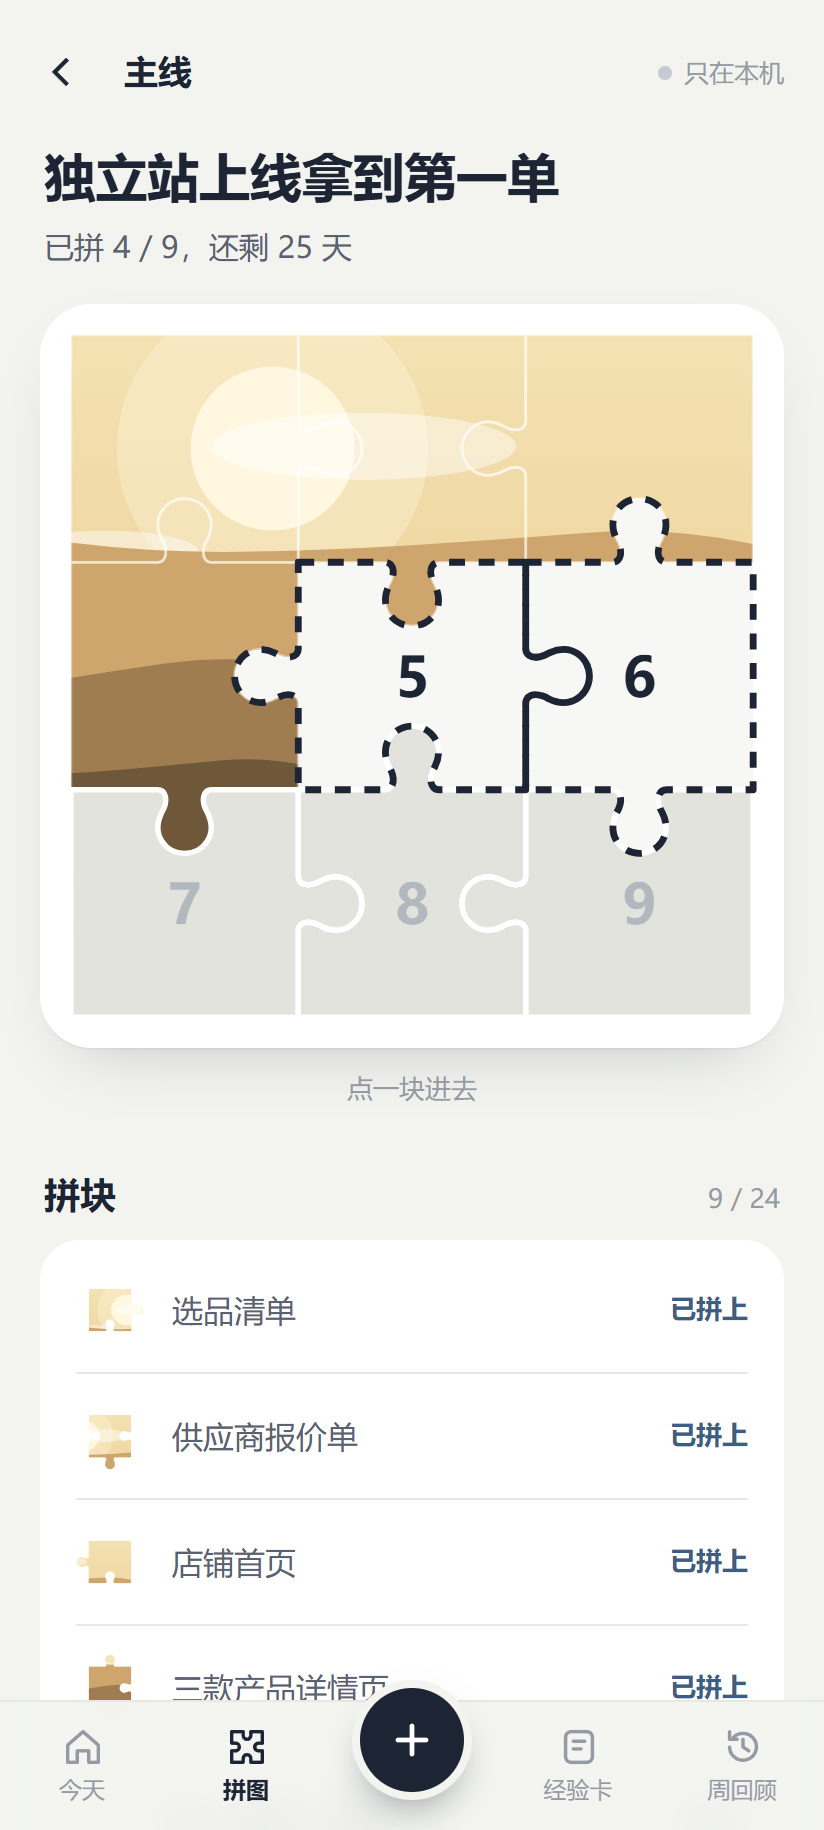
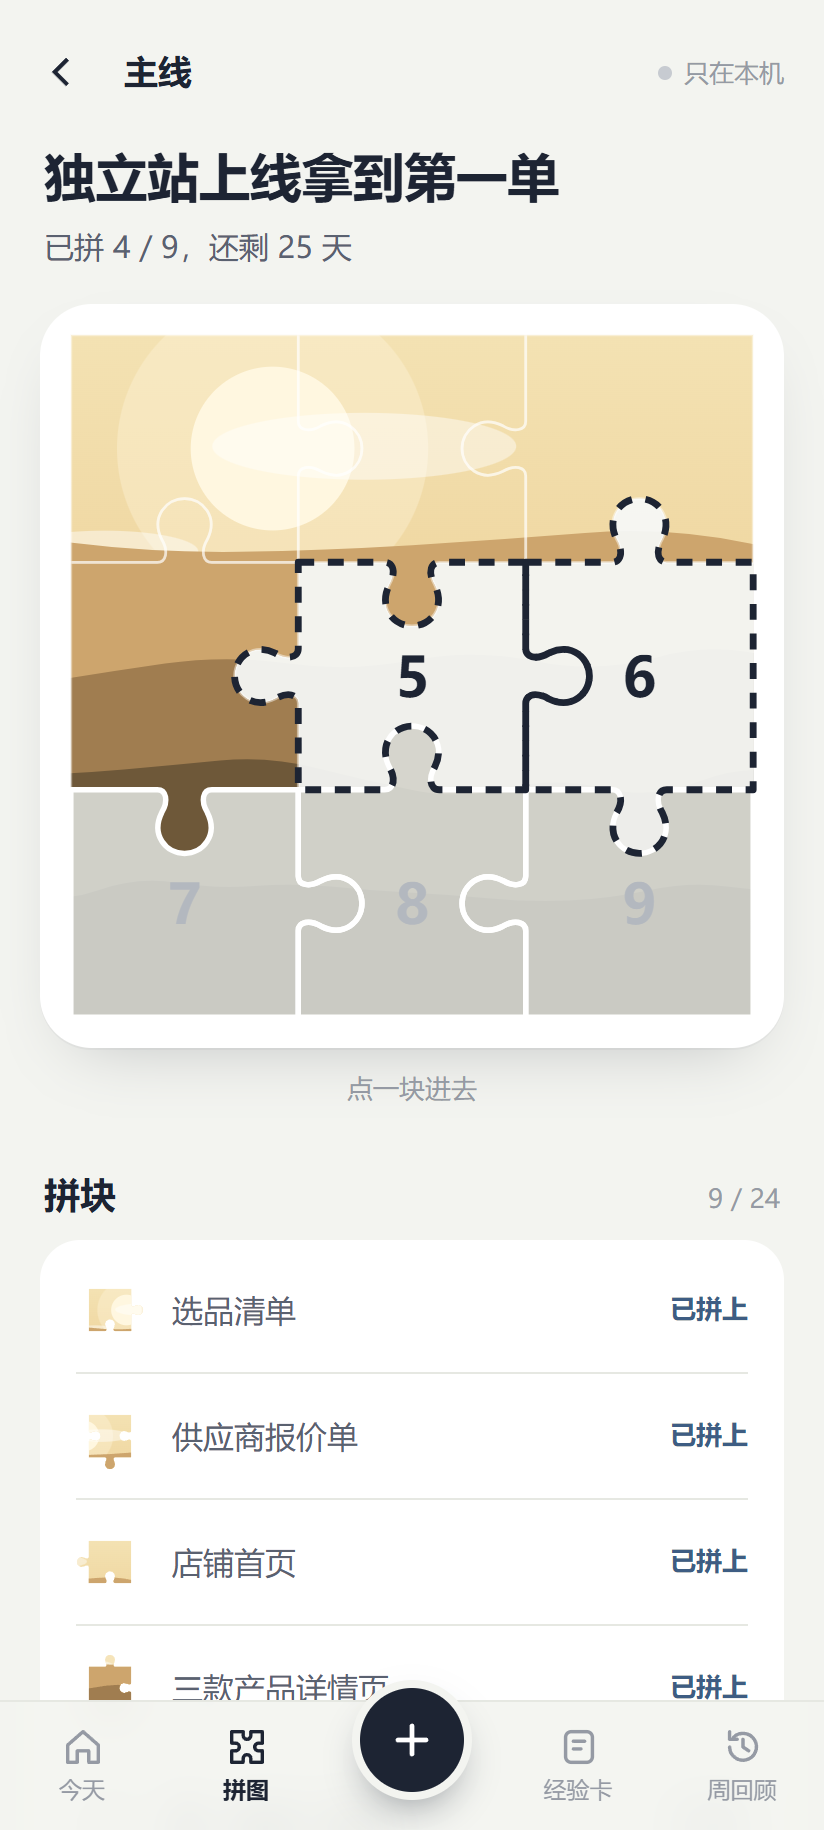
T032: 空位隐约透出风景轮廓

Changed region(s): [[0.091, 0.4672, 0.9102, 0.5607]]

diff --git a/app.js b/app.js
@@ -2,7 +2,7 @@ import * as C from './core.js';
 import * as DB from './db.js';
 import * as S from './sync.js';
 
-export const VERSION = '1.1.0';
+export const VERSION = '1.1.1';
 
 const $ = (s, el = document) => el.querySelector(s);
 const esc = s => String(s ?? '').replace(/[&<>"']/g, c => ({ '&': '&amp;', '<': '&lt;', '>': '&gt;', '"': '&quot;', "'": '&#39;' }[c]));
@@ -334,7 +334,9 @@ function jigsawSvg(pz, { mini = false } = {}) {
   const seams = order.map(i => { const g = J.pieces[i]; return `<g class="${sts[i]} ${mini ? '' : 'tap'}" data-piece="${ps[i].id}" ${mini ? '' : `data-act="go" data-to="#/piece/${ps[i].id}"`}>
       <path class="seam" d="${g.d}" style="fill:transparent"/>${mini || sts[i] === 'done' ? '' : `<text x="${g.cx}" y="${g.cy}">${i + 1}</text>`}</g>`; }).join('');
   return `<svg class="jig ${mini ? 'mini' : ''}" viewBox="-3 -3 ${W + 6} ${H + 6}" role="img" aria-label="${esc(pz.name)}：已拼 ${doneIdx.length} / ${ps.length}">
-    <defs>${art.defs}<clipPath id="${uid}-c">${doneIdx.map(i => `<path d="${J.pieces[i].d}"/>`).join('')}</clipPath></defs>
+    <defs>${art.defs}<clipPath id="${uid}-c">${doneIdx.map(i => `<path d="${J.pieces[i].d}"/>`).join('')}</clipPath>
+      <clipPath id="${uid}-all">${J.pieces.map(g => `<path d="${g.d}"/>`).join('')}</clipPath></defs>
+    <g class="ghost-art" clip-path="url(#${uid}-all)">${art.body}</g>
     ${slots}
     ${doneIdx.length ? `<g clip-path="url(#${uid}-c)">${art.body}</g>` : ''}
     ${seams}

diff --git a/styles.css b/styles.css
@@ -60,9 +60,10 @@ h2 { font-size: 18px; line-height: 1.4; font-weight: 750; margin: 0; }
 }
 .tray.tap { cursor: pointer; }
 .jig { display: block; width: 100%; height: auto; overflow: visible; }
-.jig .fill { fill: var(--slot); }
+.jig .fill { fill: var(--slot); fill-opacity: .86; }
+.jig .ghost-art { filter: saturate(.35); }
 .jig .seam { fill: none; stroke: #fff; stroke-width: 2.4; stroke-linejoin: round; }
-.jig .doing .fill { fill: #F7F8F5; }
+.jig .doing .fill { fill: #F7F8F5; fill-opacity: .93; }
 .jig .doing .seam { stroke: var(--ink); stroke-width: 3; stroke-dasharray: 7 6; }
 .jig .done .seam { stroke: rgba(255, 255, 255, .45); stroke-width: 1.2; }
 .jig text { font: 700 24px var(--sans); fill: #B3B8BF; text-anchor: middle; dominant-baseline: central; pointer-events: none; }

diff --git a/sw.js b/sw.js
@@ -1,5 +1,5 @@
 // 离线缓存：页面文件先用缓存、后台更新；数据接口一律不经过这里
-const CACHE = 'pp-v1.1.0';
+const CACHE = 'pp-v1.1.1';
 const FILES = [
   './', './index.html', './styles.css', './app.js', './core.js', './db.js', './sync.js',
   './manifest.webmanifest', './icons/icon.svg', './icons/icon-192.png', './icons/icon-512.png', './icons/icon-maskable-512.png',
